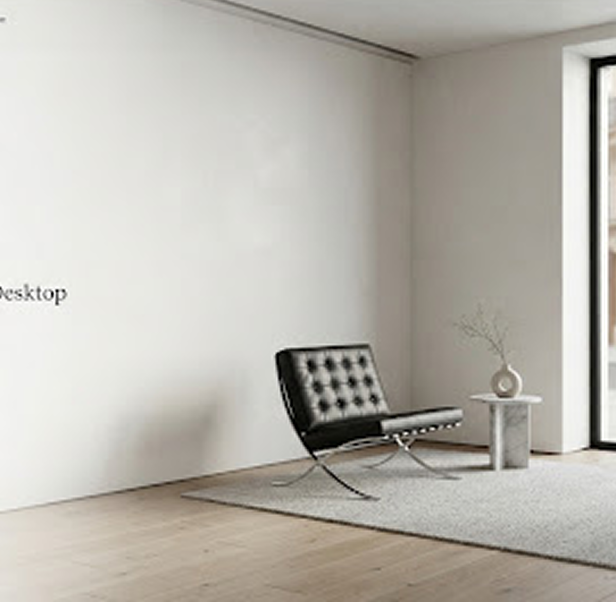
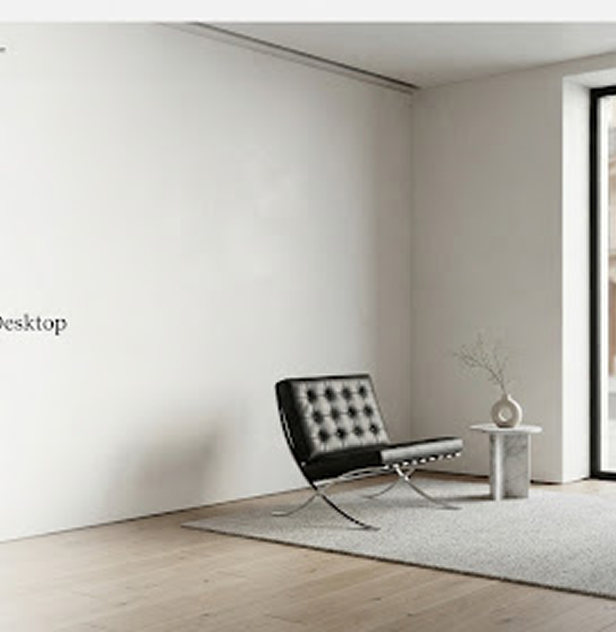
complete Contact Us Section with responsive

diff --git a/css/style.css b/css/style.css
@@ -532,6 +532,7 @@ header .container .part-2 .content h3 {
 #FeedBack .feedBack-container .group {
     width: 25%;
 }
+
 #FeedBack .feedBack-container .group .card {
     width: 90%;
     margin: auto;
@@ -554,7 +555,81 @@ header .container .part-2 .content h3 {
     margin-bottom: 15px;
     color: var(--primary-hover);
 }
-#FeedBack .feedBack-container .group .card p{
+
+#FeedBack .feedBack-container .group .card p {
     color: var(--paragraph-color);
     font-size: 16px;
+}
+
+/** Contact Us Section */
+
+#Contact .container {
+    display: flex;
+    padding: 0;
+    border-radius: var(--border-r);
+    background-color: #fff;
+    overflow: hidden;
+}
+
+#Contact .container .part-1 {
+    width: 50%;
+    background-image: url(../images/contact.jpg);
+    background-repeat: no-repeat;
+    background-size: cover;
+    background-position: center;
+}
+
+/* #Contact .container .part-1 .image img {
+    width: 100%;
+} */
+
+#Contact .container .part-2 {
+    width: 50%;
+    padding: 40px;
+}
+
+#Contact .container .part-2 p {
+    color: var(--paragraph-color);
+    font-size: 14px;
+}
+
+#Contact .container .part-2 form {
+    display: flex;
+    flex-direction: column;
+    gap: 20px;
+}
+
+#Contact .container .part-2 form .box {
+    display: flex;
+    flex-direction: column;
+    gap: 2px;
+}
+#Contact .container .part-2 form .box input,
+#Contact .container .part-2 form .box textarea{
+    padding: 5px 10px;
+}
+#Contact .container .part-2 form .box input:focus-visible,
+#Contact .container .part-2 form .box textarea:focus-visible{
+    border: 2px solid var(--primary-color);
+    outline: none;
+}
+#Contact .container .part-2 form .box textarea {
+    resize: none;
+    height: 160px;
+
+}
+#Contact .container .part-2 form button {
+    width: fit-content;
+    padding: 10px 30px;
+    border: none;
+    border-radius: var(--border-r);
+    background-color: #000;
+    color: #fff;
+    font-size: 14px;
+    transition-duration: .3s;
+}
+
+#Contact .container .part-2 form button:hover {
+    background-color: var(--primary-hover);
+    color: #000;
 }

diff --git a/css/style.responsive.css b/css/style.responsive.css
@@ -158,6 +158,24 @@
         font-size: 12px;
     }
 
+    /*& Contact Us Section */
+
+    #Contact .container {
+        flex-direction: column;
+    }
+
+    #Contact .container .part-1 {
+        width: 100%;
+        height: 280px;
+    }
+
+    #Contact .container .part-2 {
+        width: 100%;
+    }
+
+    #Contact .container .part-2 form button {
+        width: 100%;
+    }
 }
 
 /* 450 */
@@ -346,6 +364,24 @@
         font-size: 14px;
     }
 
+    /*& Contact Us Section */
+
+    #Contact .container {
+        flex-direction: row;
+    }
+
+    #Contact .container .part-1 {
+        width: 50%;
+        height: initial;
+    }
+
+    #Contact .container .part-2 {
+        width: 50%;
+    }
+
+    #Contact .container .part-2 form button {
+        width: fit-content;
+    }
 }
 
 /* 1050 */

diff --git a/index.html b/index.html
@@ -167,7 +167,7 @@
                                 <i class="fa-solid fa-star"></i>
                                 <i class="fa-solid fa-star"></i>
                                 <i class="fa-solid fa-star"></i>
-                                <i class="fa-solid fa-star d-none"></i>
+                                <i class="fa-solid fa-star-half-stroke"></i>
                             </div>
                         </div>
                     </div>
@@ -353,7 +353,7 @@
                         <i class="fa-solid fa-star"></i>
                         <i class="fa-solid fa-star"></i>
                         <i class="fa-solid fa-star"></i>
-                        <i class="fa-solid fa-star"></i>
+                        <i class="fa-solid fa-star-half-stroke"></i>
                     </div>
                     <p>"Luxury meets perfection at LUXORA every time. Beautiful products and the service is truly
                         exceptional."</p>
@@ -404,6 +404,34 @@
                         exceptional."</p>
                     <h6>— OLIVIA T.</h6>
                 </div>
+            </div>
+        </div>
+    </section>
+
+    <!--*-------- Contact Us Section --------*-->
+    <section id="Contact">
+        <div class="container">
+            <div class="part-1">
+                <div class="image"></div>
+            </div>
+            <div class="part-2">
+                <h2>Connect with Us</h2>
+                <p>For inquiries regarding bespoke orders or editorial partnerships.</p>
+                <form action="" method="get">
+                    <div class="box">
+                        <label for="name">full name</label>
+                        <input type="text" name="name" id="name" placeholder="e.g. Julian Vane" required>
+                    </div>
+                    <div class="box">
+                        <label for="email">email address</label>
+                        <input type="email" name="email" id="email" placeholder="[email redacted]" required>
+                    </div>
+                    <div class="box">
+                        <label for="massage">massage</label>
+                        <textarea name="massage" id="massage" placeholder="How can we assist you?"></textarea>
+                    </div>
+                    <button>Send Inquiry</button>
+                </form>
             </div>
         </div>
     </section>